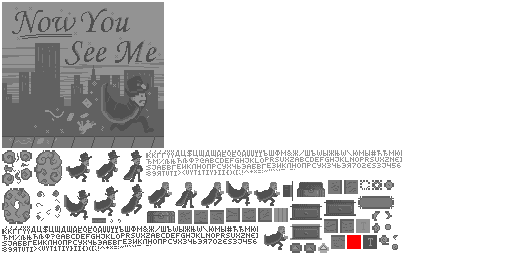
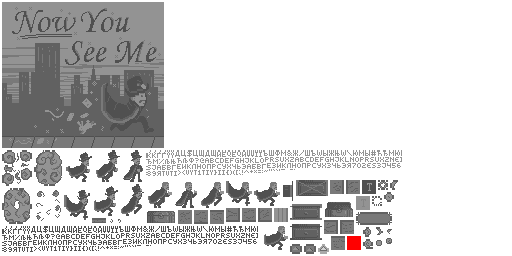
Fixed container showing stuff while vanishing

Changed region(s): [[0.5625, 0.6875, 0.7812, 1.0]]

diff --git a/Assets/Resources/Scripts/Player/Player.cs b/Assets/Resources/Scripts/Player/Player.cs
@@ -9,7 +9,7 @@ public class Player : FContainer
     // State for player
     // Marking is when the hat is placed on the map
     // Vanishing is when the player is vanishing back to the hat
-    private enum State
+    public enum State
     {
         IDLE,
         MARKING,
@@ -19,7 +19,7 @@ public class Player : FContainer
     }
     FAnimatedSprite interactInd;
     FAnimatedSprite playerSprite;
-    private State currentState = State.IDLE;
+    public State currentState = State.IDLE;
     private State lastState = State.IDLE;
     Hat hat;
     World world;
@@ -257,6 +257,8 @@ public class Player : FContainer
                 break;
             case State.VANISHING:
             case State.SPAWNING:
+                currentInteractable = null;
+                interactInd.isVisible = false;
                 return;     //Don't allow controls past this if vanishing
             case State.COOLDOWN:
                 if (stateCount > HAT_RETURN_COUNT)

diff --git a/Assets/Resources/Scripts/C.cs b/Assets/Resources/Scripts/C.cs
@@ -6,7 +6,7 @@ using UnityEngine;
 
 public class C
 {
-    public const string versionNumber = "v0.1.21";
+    public const string versionNumber = "v0.1.22";
 
     public static bool isSpawning = false;
 
@@ -28,6 +28,6 @@ public class C
     public const KeyCode RIGHT_KEY = KeyCode.RightArrow;
     public const KeyCode UP_KEY = KeyCode.UpArrow;
     public const KeyCode DOWN_KEY = KeyCode.DownArrow;
-    public const KeyCode JUMP_KEY = KeyCode.A;
-    public const KeyCode ACTION_KEY = KeyCode.S;
+    public const KeyCode JUMP_KEY = KeyCode.S;
+    public const KeyCode ACTION_KEY = KeyCode.A;
 }

diff --git a/Assets/Resources/Scripts/Objects/Container.cs b/Assets/Resources/Scripts/Objects/Container.cs
@@ -16,7 +16,7 @@ public class Container : InteractableObject
         interactSprite = new FAnimatedSprite("Containers/container" + type);
         interactSprite.addAnimation(new FAnimation("interactable", new int[] { 1 }, 100, true));
         interactSprite.addAnimation(new FAnimation("uninteractable", new int[] { 2 }, 100, true));
-        interactSprite.addAnimation(new FAnimation("hover", new int[] { 3 }, 100, true));
+        interactSprite.addAnimation(new FAnimation("hover", new int[] { 3, 1 }, 100, true));
 
         this.AddChild(interactSprite);
     }

diff --git a/Assets/Resources/Scripts/Objects/InteractableObject.cs b/Assets/Resources/Scripts/Objects/InteractableObject.cs
@@ -22,6 +22,11 @@ public abstract class InteractableObject : FContainer
     {
         if (!interactable)
             return false;
+        if (p.currentState == Player.State.VANISHING)
+        {
+            interactSprite.play("interactable");
+            return false;
+        }
         if (x - X_INTERACT_DIST < p.x &&
             x + X_INTERACT_DIST > p.x &&
             y - Y_INTERACT_DIST < p.y &&
